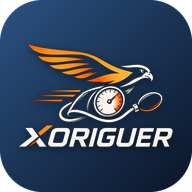
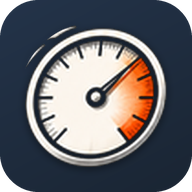
Icones sense falcó i pantalla d'inici d'Android blau pissarra

diff --git a/sw.js b/sw.js
@@ -1,6 +1,6 @@
 // XoriguerPressió · funcionament sense connexió
 // Quan canviïs l'app, puja el número de versió perquè els mòbils agafin la nova.
-const VERSION = "xoriguerpressio-v5";
+const VERSION = "xoriguerpressio-v5-icones";
 const APP = [
   "./", "index.html", "manifest.json", "css/app.css", "marca/marca.css", "marca/Montserrat-ExtraBold.ttf", "js/rules.js", "js/app.js",
   "vendor/fonts/pjs-400.woff2", "vendor/fonts/pjs-600.woff2", "vendor/fonts/pjs-700.woff2", "vendor/fonts/pjs-800.woff2",
